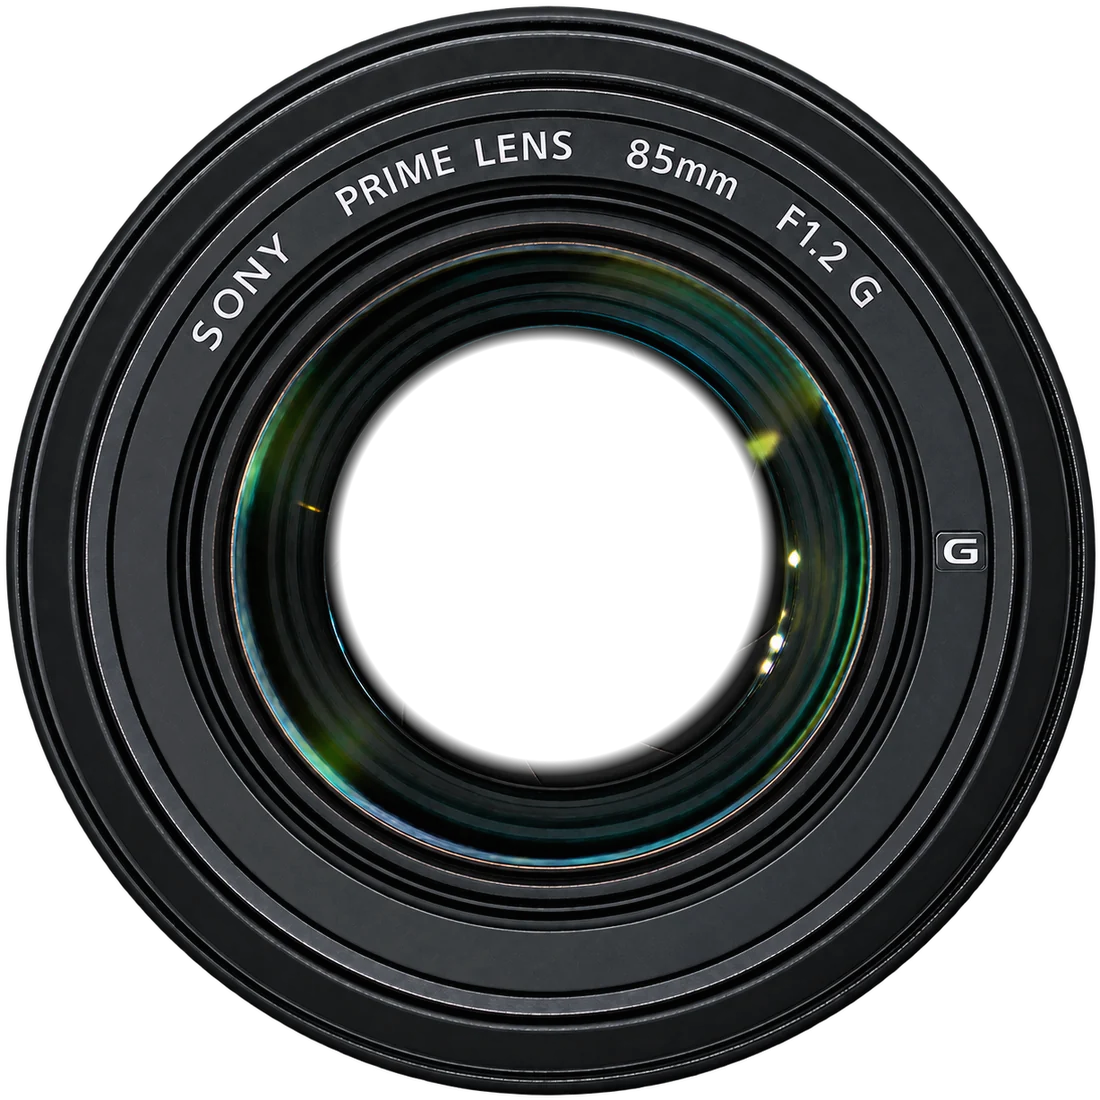
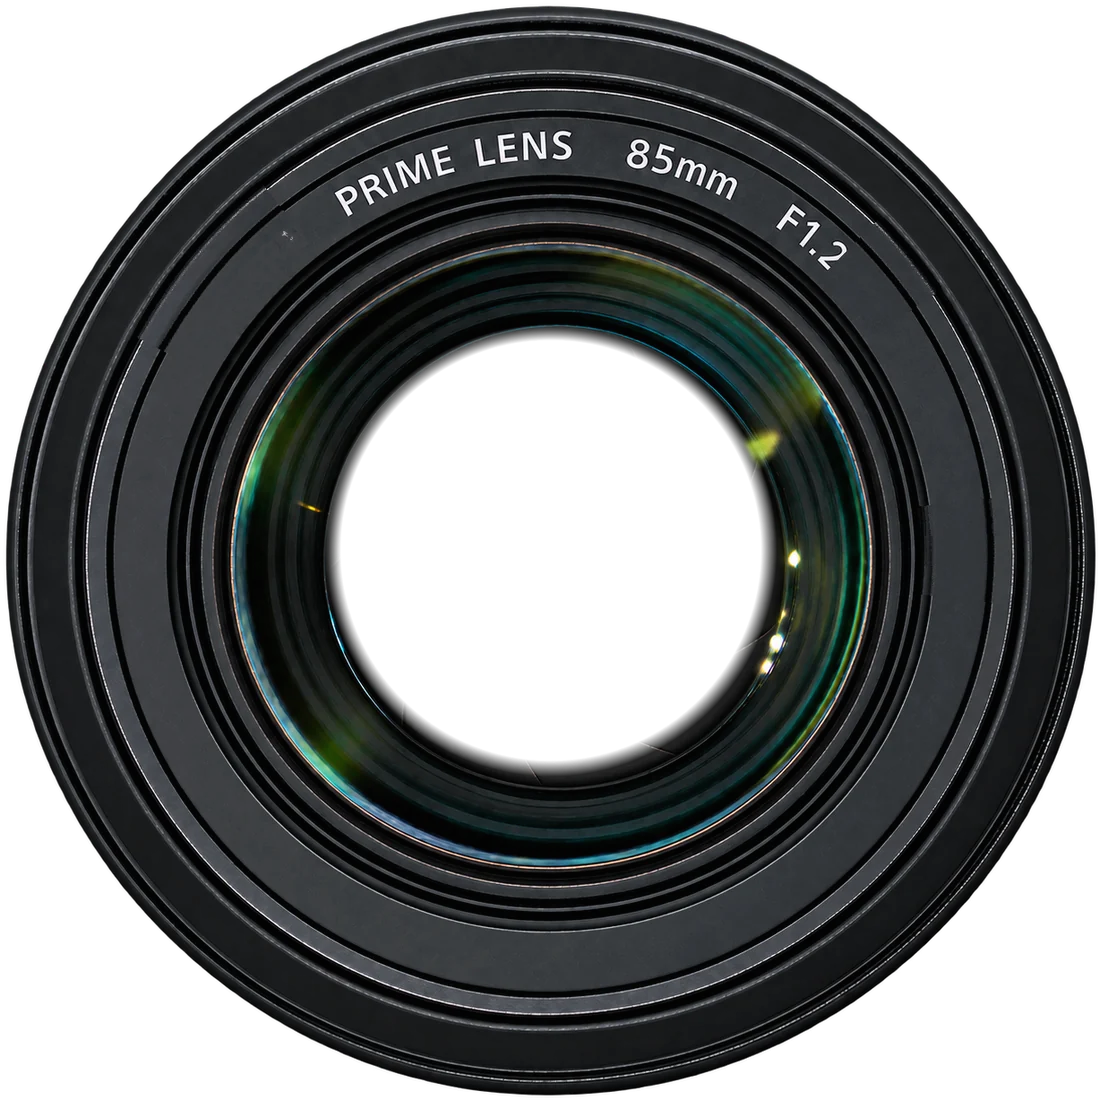
Remove the maker's branding from the hero lens barrel
Takes off SONY, the G after F1.2, and the raised G plaque at three o'clock,
leaving PRIME LENS 85mm F1.2. Located them from the image's own angular
histogram of bright barrel pixels: the text arc sits at 210-325 degrees and
the plaque at roughly zero, both around 0.78 of the radius.

Filled by sampling the same radius at other angles rather than by blurring.
The barrel is machined and so near rotationally symmetric, which keeps every
ring and the lighting falloff intact where a blur would smear them into a
visible patch. Nearer donor angles are tried first because the lens is shot
slightly off-axis, so rings are not perfectly concentric and a donor far
around the barrel lands on a slightly different radius; the close offsets
fall inside the wider SONY mask and are skipped there automatically, but
they rescue the plaque, which spans only 13 degrees.

Grain is restored from a median-absolute-deviation estimate, not RMS. RMS
over the surrounding ring is dominated by the machined ring edges rather
than by grain and returned 16.4, which laid down a visibly noisy block over
each repair; MAD gives 2.97 and the repairs disappear.

The asset URL is versioned: the first push of this file still carried the
branding, and /assets/* is served immutable for a year.

Nothing outside the hero transition is touched. Full-page test clean.

diff --git a/index.html b/index.html
@@ -1859,7 +1859,10 @@ button.work-tile:focus-visible{ outline:2px solid var(--green-400); outline-offs
     barrelReady = true;
     drawLens(lastT, lastSpin);
   };
-  barrelImg.src = 'assets/lens-barrel.webp';
+  /* ?v= because /assets/* is served immutable for a year: the first push of
+     this file still carried the maker's branding, and anyone who loaded it
+     would otherwise keep that version. Bump on every re-cut. */
+  barrelImg.src = 'assets/lens-barrel.webp?v=2';
 
   /* Out-of-focus highlights inside the opening: [angle, distance, size, alpha],
      fixed rather than random so they hold still between frames instead of
